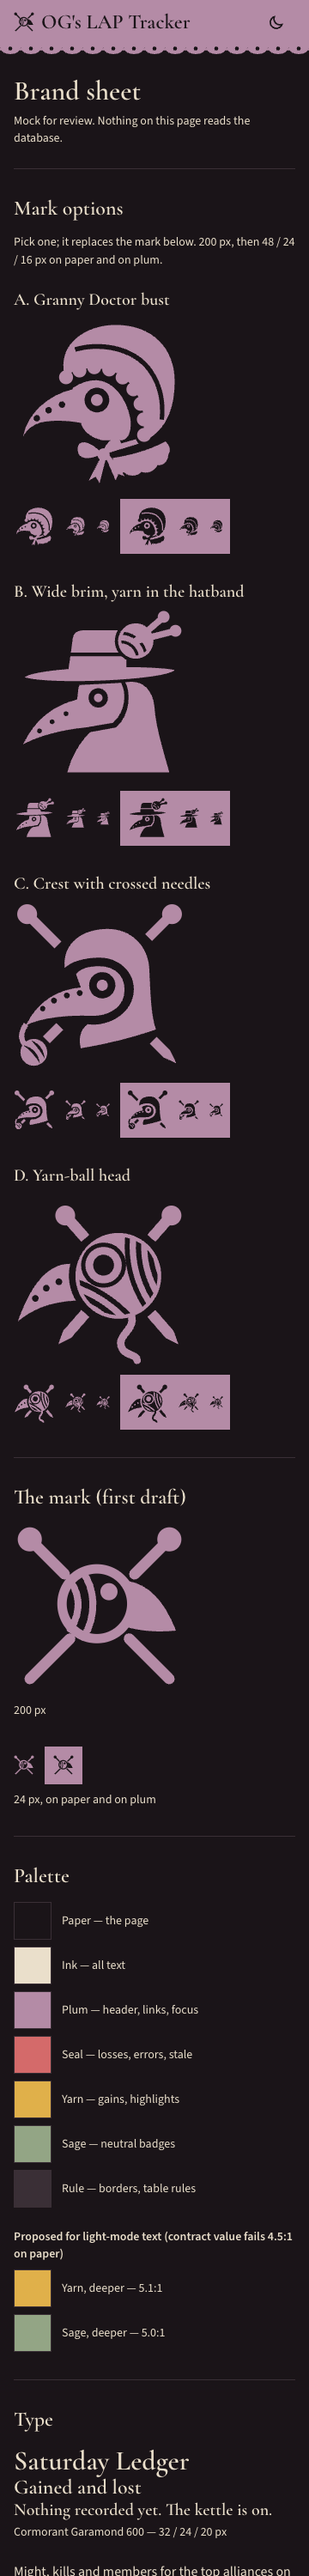
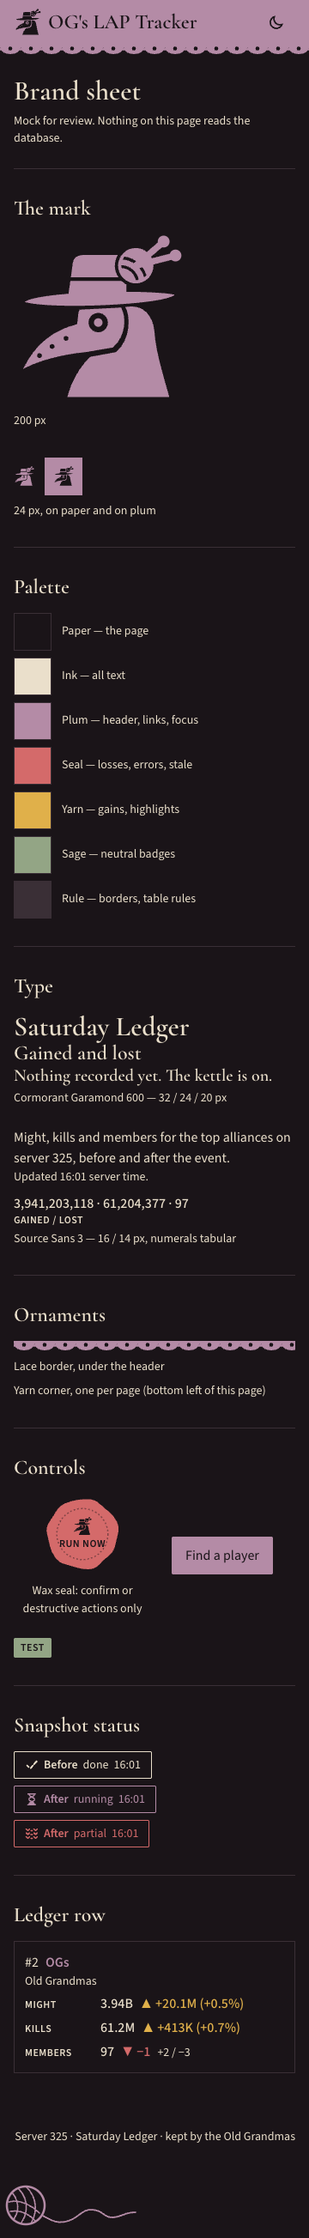
feat: brand mock — wide-brim mark chosen
- Mark: the owner picked option B (plague doctor under a wide brim, yarn ball and needles in the
  hatband). It replaces the first draft in Logo.tsx; the header shows it at 32 px.
- The Granny Doctor bust is kept for the mascot poses at docs/brand/granny-doctor-bust.svg.
- Contract colours kept as they are; the proposal tokens and swatches are removed. The light-mode
  contrast gap (yarn 2.15:1, sage 3.46:1) is an accepted exception in DESIGN.md, tracked in #25.
- Screenshots 07-brand-{360,1280}-{light,dark}.png re-taken.

Changed region(s): [[0.0, 0.0, 1.0, 1.0], [0.55, 0.6835, 0.8861, 0.7146], [0.55, 0.7768, 0.5806, 0.8078]]

diff --git a/app/(pages)/brand/page.tsx b/app/(pages)/brand/page.tsx
@@ -5,7 +5,6 @@ import type { ReactNode } from "react";
 import { compact, percentText, signOf } from "@/app/_ui/format";
 import { LaceBorder } from "@/lib/brand/components/LaceBorder";
 import { Logo, Mark } from "@/lib/brand/components/Logo";
-import { BrimMark, BustMark, CrestMark, YarnheadMark } from "@/lib/brand/components/MarkOptions";
 import { SealButton } from "@/lib/brand/components/SealButton";
 import { DroppedStitch, Hourglass, StitchedCheck } from "@/lib/brand/components/StatusIcons";
 import { ThemeSwitch } from "@/lib/brand/components/ThemeSwitch";
@@ -115,43 +114,6 @@ function SampleRow() {
   );
 }
 
-const OPTIONS = [
-  [BustMark, t.options.bust],
-  [BrimMark, t.options.brim],
-  [CrestMark, t.options.crest],
-  [YarnheadMark, t.options.yarnhead],
-] as const;
-
-function OptionsSection() {
-  return (
-    <Section title={t.options.title}>
-      <p className="mb-6 text-body-sm">{t.options.note}</p>
-      <ul className="grid gap-8 sm:grid-cols-2">
-        {OPTIONS.map(([Option, label]) => (
-          <li key={label}>
-            <p className="mb-2 font-display text-display-sm font-semibold">{label}</p>
-            <div className="text-plum">
-              <Option size={200} />
-            </div>
-            <div className="mt-3 flex flex-wrap items-center gap-3">
-              <span className="flex items-center gap-3 text-plum">
-                <Option size={48} />
-                <Option size={24} />
-                <Option size={16} />
-              </span>
-              <span className="flex items-center gap-3 bg-plum p-2 text-paper">
-                <Option size={48} />
-                <Option size={24} />
-                <Option size={16} />
-              </span>
-            </div>
-          </li>
-        ))}
-      </ul>
-    </Section>
-  );
-}
-
 function MarkSection() {
   return (
     <Section title={t.mark.title}>
@@ -183,11 +145,6 @@ function PaletteSection() {
         {SWATCHES.map(([fill, label]) => (
           <Swatch key={fill} fill={fill} label={label} />
         ))}
-      </ul>
-      <p className="mt-6 mb-2 text-body-sm font-semibold">{t.palette.proposal}</p>
-      <ul className="grid gap-2 sm:grid-cols-2">
-        <Swatch fill="bg-yarn-deep" label={t.palette.proposalRoles.yarnDeep} />
-        <Swatch fill="bg-sage-deep" label={t.palette.proposalRoles.sageDeep} />
       </ul>
     </Section>
   );
@@ -276,7 +233,7 @@ export default async function BrandPage() {
       <header className="sticky top-0 z-30 text-plum">
         <div className="bg-plum text-paper">
           <div className="mx-auto flex max-w-[960px] items-center justify-between gap-2 px-4 py-1 sm:px-6">
-            <Logo name={copy.site.name} />
+            <Logo name={copy.site.name} size={32} />
             <ThemeSwitch initial={theme} label={copy.site.darkMode} />
           </div>
         </div>
@@ -285,7 +242,6 @@ export default async function BrandPage() {
       <main className="mx-auto max-w-[960px] px-4 pt-6 pb-8 sm:px-6">
         <h1 className="font-display text-display-lg font-semibold">{t.title}</h1>
         <p className="mt-2 mb-6 text-body-sm">{t.intro}</p>
-        <OptionsSection />
         <MarkSection />
         <PaletteSection />
         <TypeSection />

diff --git a/lib/brand/components/Logo.tsx b/lib/brand/components/Logo.tsx
@@ -1,7 +1,7 @@
-// The mark (Phase 5b): a plague-doctor beak mask whose head is a ball of yarn, with two knitting
-// needles crossed behind it where the bones would be. Original, single colour (currentColor), drawn on a
-// 64-unit grid so it still reads at 16–24 px. The needles stop short of the ball instead of being
-// masked, so there are no ids and the mark works on any background.
+// The mark (Phase 5b, owner's pick "B" at the Session 7 mock): a plague doctor in profile facing left
+// (hooked, riveted beak, goggle eye, cowl) under a wide-brimmed hat, with a ball of yarn and two knitting
+// needles tucked into the hatband where a feather would go. Original, single colour (currentColor),
+// holes by evenodd, no ids, on a 64-unit grid; the hat, beak and cowl still read at 16-24 px.
 export function Mark({ size = 24, className }: { size?: number; className?: string }) {
   return (
     <svg
@@ -12,17 +12,27 @@ export function Mark({ size = 24, className }: { size?: number; className?: stri
       aria-hidden="true"
       fill="currentColor"
     >
-      <g stroke="currentColor" strokeLinecap="round" strokeWidth="4" fill="none">
-        <path d="M7 7 19 19M43 43 58 58M57 7 45 19M21 43 6 58" />
-      </g>
-      <circle cx="6" cy="6" r="4.5" />
-      <circle cx="58" cy="6" r="4.5" />
-      <g stroke="currentColor" strokeLinecap="round" fill="none">
-        <circle cx="31" cy="30" r="13" strokeWidth="3.5" />
-        <path d="M21 21.5c4 5 4 12.5 0 18M25.5 18c5 6 5.5 17 .5 24.5" strokeWidth="2.6" />
-      </g>
-      <circle cx="35.5" cy="25.5" r="3.2" />
-      <path d="M42.5 21.5c7.5 1.2 13.5 7 18 18.5-6.5.6-13 .4-19.3-1.6 1.6-5.4 2-11.4 1.3-16.9Z" />
+      <path d="M21.3 16.3L22 11Q22.5 8 26 8H38.8A7.8 7.8 0 0 0 39 16.3Z" />
+      <path d="M21.1 17.7H40.2A7.8 7.8 0 0 0 42 19V22.5H20.4Z" />
+      <path d="M4 25.5C10 21.5 50 20.8 60 22.8C57 26.5 14 28.5 4 25.5Z" />
+      <path
+        fillRule="evenodd"
+        d="M38.9 12a6.6 6.6 0 1 0 13.2 0a6.6 6.6 0 1 0-13.2 0ZM46.6 17.3A6.75 6.75 0 0 0 40.1 11.8L40.2 12.9A5.65 5.65 0 0 1 45.5 17.4ZM49.5 15.6A9.95 9.95 0 0 0 41.3 8.6L40.6 9.7A8.85 8.85 0 0 1 48.6 16.4Z"
+      />
+      <path
+        d="M45.5 12L55.6 3.3M45.5 12L60 8.3"
+        stroke="currentColor"
+        strokeWidth="2.4"
+        strokeLinecap="round"
+      />
+      <circle cx="55.9" cy="3" r="2.2" />
+      <circle cx="60.3" cy="8.2" r="2.2" />
+      <path
+        fillRule="evenodd"
+        d="M24.5 28.4L40 27.6C42 31 42 38 37 42.5L27 44.2C18 45 9 47.5 3.5 50.5C8 41 15 36 23.6 33.8C24 32 23.8 30 24.5 28.4ZM31.5 29.6a3.6 3.6 0 1 0 0 7.2a3.6 3.6 0 1 0 0-7.2ZM19.5 38.2a.9 .9 0 1 0 0 1.8a.9 .9 0 1 0 0-1.8ZM14.3 41.2a.9 .9 0 1 0 0 1.8a.9 .9 0 1 0 0-1.8ZM9.6 44.6a.9 .9 0 1 0 0 1.8a.9 .9 0 1 0 0-1.8Z"
+      />
+      <circle cx="31.5" cy="33.2" r="1.6" />
+      <path d="M41.6 27.4C43.6 31 43.6 39.4 38.2 44.2L28.4 46C24.5 50 21.5 55 20 61H58C55.5 52 53 44 52.5 37C52 30 48 27 43.5 27.2Z" />
     </svg>
   );
 }

diff --git a/lib/copy.ts b/lib/copy.ts
@@ -12,16 +12,8 @@ export const copy = {
   brand: {
     title: "Brand sheet",
     intro: "Mock for review. Nothing on this page reads the database.",
-    options: {
-      title: "Mark options",
-      note: "Pick one; it replaces the mark below. 200 px, then 48 / 24 / 16 px on paper and on plum.",
-      bust: "A. Granny Doctor bust",
-      brim: "B. Wide brim, yarn in the hatband",
-      crest: "C. Crest with crossed needles",
-      yarnhead: "D. Yarn-ball head",
-    },
     mark: {
-      title: "The mark (first draft)",
+      title: "The mark",
       large: "200 px",
       small: "24 px, on paper and on plum",
     },
@@ -36,12 +28,6 @@ export const copy = {
         sage: "Sage — neutral badges",
         rule: "Rule — borders, table rules",
       },
-      proposal: "Proposed for light-mode text (contract value fails 4.5:1 on paper)",
-      proposalRoles: {
-        yarnDeep: "Yarn, deeper — 5.1:1",
-        sageDeep: "Sage, deeper — 5.0:1",
-      },
-      contrast: { yarn: "2.2:1 on paper", sage: "3.5:1 on paper" },
     },
     type: {
       title: "Type",

diff --git a/lib/brand/tokens.css b/lib/brand/tokens.css
@@ -11,11 +11,6 @@
   --sage: #6f7f62;
   --rule: #d9cdb4;
 
-  /* Proposal shown on /brand for the owner's review: contract yarn is 2.15:1 and sage 3.46:1 on paper,
-     under DESIGN.md's 4.5:1 text rule. Promote or delete at review. */
-  --yarn-deep: #7a5a12;
-  --sage-deep: #56654b;
-
   --space-xxs: 4px;
   --space-xs: 8px;
   --space-sm: 12px;
@@ -42,8 +37,6 @@
     --yarn: #e0b04a;
     --sage: #93a585;
     --rule: #3a2f36;
-    --yarn-deep: #e0b04a;
-    --sage-deep: #93a585;
   }
 }
 :root[data-theme="dark"] {
@@ -54,8 +47,6 @@
   --yarn: #e0b04a;
   --sage: #93a585;
   --rule: #3a2f36;
-  --yarn-deep: #e0b04a;
-  --sage-deep: #93a585;
   color-scheme: dark;
 }
 :root[data-theme="light"] {
@@ -70,8 +61,6 @@
   --color-yarn: var(--yarn);
   --color-sage: var(--sage);
   --color-rule: var(--rule);
-  --color-yarn-deep: var(--yarn-deep);
-  --color-sage-deep: var(--sage-deep);
 
   /* Inline, so the next/font variables resolve on the element that carries lib/brand/fonts.ts's class. */
   --font-display: var(--font-cormorant), Georgia, serif;

diff --git a/docs/DESIGN.md b/docs/DESIGN.md
@@ -184,7 +184,11 @@ Members of a game alliance on server 325 — Russia, Spain, Brazil, the United S
 
 ## Mascot: the Granny Doctor
 
-An original character, ours: an old lady in a plague-doctor beak mask, bonnet or kerchief, a cane in one hand and a knitting bag in the other. Dignified, a little stern, funny because she is serious. Single-colour inline SVG, at most three poses (standing with the cane for the 404, dropping a bottle for the 500, pouring tea for the empty state). Game references are allowed as **allusions in copy** — the server number, "KvK", the game's terms — never as its art, characters or assets. Comic but serious: a joke a 40-year-old officer in Russia would also get, never a meme.
+An original character, ours: an old lady in a plague-doctor beak mask, bonnet or kerchief, a cane in one hand and a knitting bag in the other. Dignified, a little stern, funny because she is serious. A first bust of her (bonnet, ribbon bow, ruff), drawn as a candidate mark at the Session 7 mock and kept for the poses, is `docs/brand/granny-doctor-bust.svg`. Single-colour inline SVG, at most three poses (standing with the cane for the 404, dropping a bottle for the 500, pouring tea for the empty state). Game references are allowed as **allusions in copy** — the server number, "KvK", the game's terms — never as its art, characters or assets. Comic but serious: a joke a 40-year-old officer in Russia would also get, never a meme.
+
+## Mark
+
+The logo mark (owner's pick at the Session 7 mock, 2026-11-04): a plague doctor in profile facing left — hooked, riveted beak, goggle eye, cowl — under a wide-brimmed hat, with a ball of yarn and two knitting needles tucked into the hatband where a feather would go. `lib/brand/components/Logo.tsx`, single colour, 32 px in the header, also the favicon and app icons.
 
 ## Overview
 
@@ -209,7 +213,7 @@ A guild ledger, kept by hand, in a plague year. The page is aged paper; the ink 
 - **Sage** (`{colors.sage}` — #6f7f62): neutral badges — `[TEST]`, "fallback source", "manual". Dark: `{colors.dark-sage}`.
 - **Rule** (`{colors.rule}` — #d9cdb4): borders and table rules. Dark: `{colors.dark-rule}`.
 
-Rules: deltas are coloured by sign only; a colour that carries no meaning is not used. Text contrast ≥ 4.5:1, large numerals ≥ 3:1, checked in both modes. No gradients anywhere.
+Rules: deltas are coloured by sign only; a colour that carries no meaning is not used. Text contrast ≥ 4.5:1, large numerals ≥ 3:1, checked in both modes. Known exception, accepted by the owner at the Session 7 mock (2026-11-04): in light mode yarn text on paper is 2.15:1 and paper on sage 3.46:1; the fix is tracked in [issue #25](https://github.com/daniro-san/LAPTracker/issues/25). No gradients anywhere.
 
 ## Typography
 
